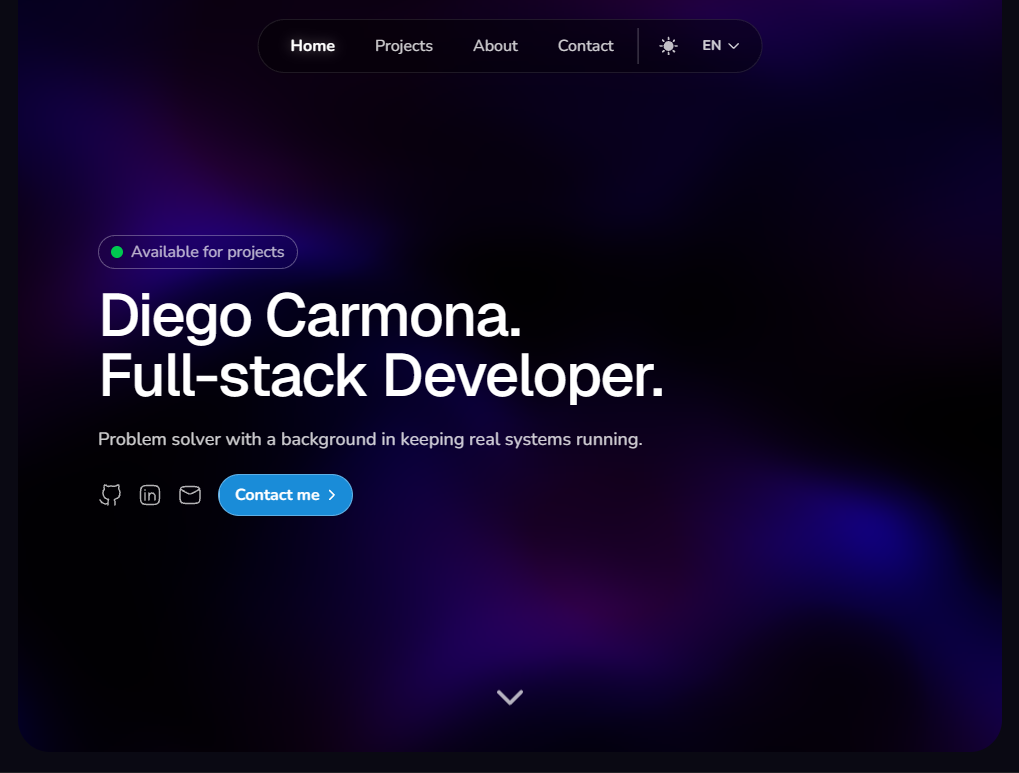
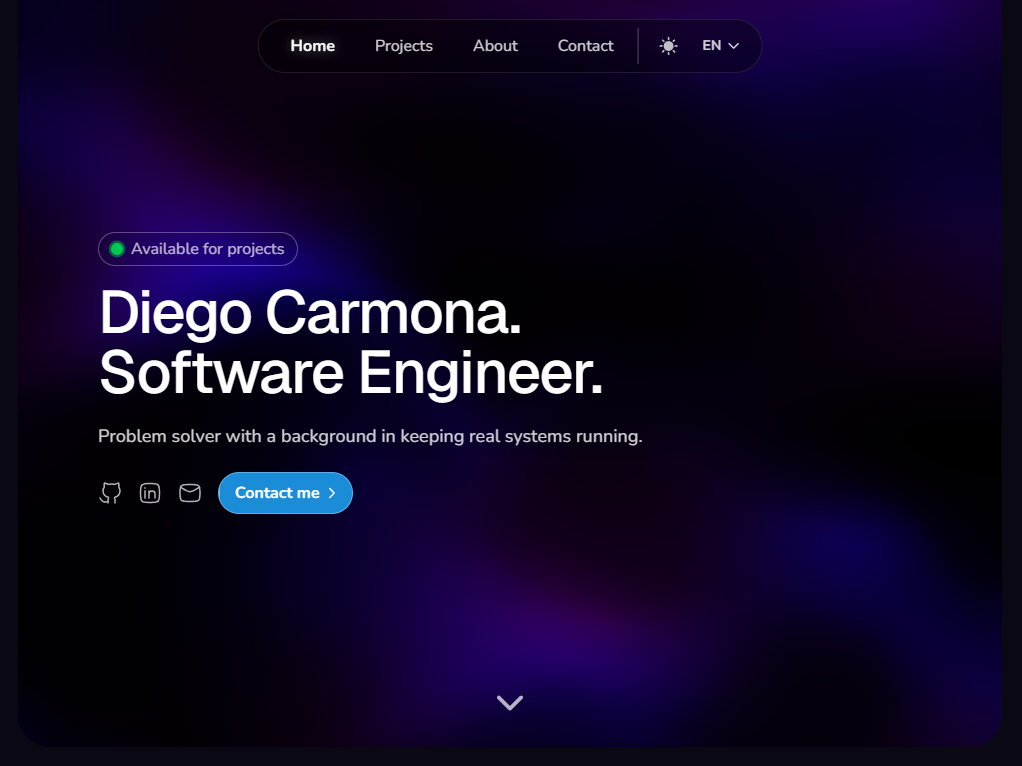
feat: update README, add SEO metadata, and implement robots.txt for improved search engine indexing

diff --git a/src/app/layout.tsx b/src/app/layout.tsx
@@ -22,6 +22,9 @@ export const metadata: Metadata = {
   title: "Diego Carmona | Software Engineer",
   description:
     "Diego Carmona's personal portfolio showcasing projects, skills, and contact information. Built with Next.js, TypeScript, and Tailwind CSS.",
+  alternates: {
+    canonical: "https://diegocarmona.me",
+  },
   keywords: [
     "Diego Carmona",
     "Software Engineer",
@@ -29,8 +32,11 @@ export const metadata: Metadata = {
     "TypeScript Developer",
     "React Developer",
     "Node.js Developer",
-    "Software Engineer",
     "Web Developer",
+    "Full Stack Developer",
+    "Desenvolvedor",
+    "Portfolio",
+    "Desenvolvedor Full Stack",
   ],
   authors: [
     {

diff --git a/src/app/components/StructuredData.tsx b/src/app/components/StructuredData.tsx
@@ -5,6 +5,10 @@ export default function StructuredData() {
     name: "Diego Carmona",
     jobTitle: "Software Engineer",
     url: "https://diegocarmona.me",
+    email: "mailto:diegoncarmona@gmail.com",
+    image: "https://diegocarmona.me/profile.jpg",
+    description:
+      "Diego Carmona is a software engineer focused on building real, production-ready web products end to end. He works across the full stack with React, Next.js, TypeScript, and Node.js, with strong attention to performance, accessibility, and real-world usage.",
     sameAs: [
       "https://www.linkedin.com/in/diegocarmn/",
       "https://github.com/diegocarmn",

diff --git a/src/app/page.tsx b/src/app/page.tsx
@@ -335,7 +335,7 @@ export default function Home() {
                     description={
                       translations[lang].contact.whatsapp.description
                     }
-                    link="http://wa.me/+5551994638306"
+                    link="https://wa.me/+5551994638306"
                   />
                 )}
               </div>

diff --git a/src/app/robots.ts b/src/app/robots.ts
@@ -1,0 +1,11 @@
+import type { MetadataRoute } from "next";
+
+export default function robots(): MetadataRoute.Robots {
+  return {
+    rules: {
+      userAgent: "*",
+      allow: "/",
+    },
+    sitemap: "https://diegocarmona.me/sitemap.xml",
+  };
+}

diff --git a/README.md b/README.md
@@ -1,76 +1,127 @@
 # Diego Carmona - Portfolio
 
-A modern, high-performance portfolio website built with cutting-edge technologies. Features premium animations, dark mode support, multi-language internationalization, and optimized performance metrics.
+A production-grade, high-performance portfolio built as a real-world web product. Designed with a strong focus on **performance, accessibility, SEO, and long-term maintainability**, while showcasing modern full-stack engineering practices.
 
-**Website/Deploy**: [carmona.vercel.app](https://carmona.vercel.app) | **Repository**: [GitHub](https://github.com/diegocarmn/portfolio)
+**Live:** https://diegocarmona.me  
+**Repository:** https://github.com/diegocarmn/portfolio
 
-## 🎯 Overview
+## Overview
 
-This is a **production-ready portfolio** showcasing full-stack development capabilities through:
+This project is a **fully production-ready portfolio** that reflects how I approach real software systems:
 
-- **Premium UX/DX** with smooth animations powered by Framer Motion
-- **Performance-first** architecture with Next.js 16 and modern React 19
-- **Type-safe** codebase with TypeScript
-- **Accessibility-compliant** semantic HTML and ARIA labels
-- **Dark mode** with automatic theme detection
-- **Multi-language support** for English and Portuguese (pt-BR)
-- **3D background effects** using Vanta + Three.js
+![Portfolio preview](./public/preview.png)
 
-## 📊 Tech Stack
+- Clear product identity and positioning
+- End-to-end ownership (UX → frontend → SEO → deployment)
+- Strong technical foundations with modern React and Next.js
+- Measurable real-world results (indexing, ranking, performance)
 
-### Frontend Framework
+It is intentionally built as a **single-page application with rich interactions**, while still being **crawlable, indexable, and SEO-safe**.
 
-- **Next.js 16.1.6** - React framework with server components and app router
-- **React 19.2.3** - Latest React with concurrent features
-- **TypeScript 5** - Full type safety across the codebase
+## Tech Stack
 
-### Styling & Animation
+### Platform & Frameworks
 
-- **Tailwind CSS 4** - Utility-first CSS with PostCSS integration
-- **Framer Motion 12.29.2** - Production-grade animations with GPU acceleration
-- **Vanta 0.5.24** - Animated 3D backgrounds
-- **Three.js 0.182.0** - WebGL rendering for 3D effects
+- **Next.js (App Router)** – modern routing, metadata API, and platform primitives
+- **React 19** – concurrent rendering and modern composition patterns
+- **TypeScript** – strict typing across the entire codebase
 
-### Developer Tools
+### Styling & Motion
 
-- **ESLint 9** - Code quality with Next.js config
-- **TypeScript strict mode** - Enforced type checking
+- **Tailwind CSS** – zero-runtime styling with design consistency
+- **Framer Motion** – declarative, GPU-accelerated animations
+- **Three.js + Vanta** – subtle 3D background effects without compromising UX
 
-### Icons & Assets
+### Tooling
 
-- **react-icons 5.5.0** - SVG icon library integration
-- **Next.js Image** - Automatic image optimization
+- **ESLint** – enforced code quality
+- **Vercel Analytics** – real usage and performance insights
+- **Next/Image & next/font** – asset and font optimization
 
-## 🚀 Features
+## Features
 
-### Performance
+### Performance & UX
 
-- ✅ **Optimized images** via Next.js Image component
-- ✅ **Font loading** with `next/font`
-- ✅ **Code splitting** with dynamic imports
-- ✅ **CSS-in-JS** via Tailwind (zero runtime overhead)
-
-### User Experience
-
-- ✅ **Smooth scroll behavior** with Intersection Observer
-- ✅ **Staggered animations** using variants pattern
-- ✅ **Hardware-accelerated transforms** via Framer Motion
-- ✅ **Responsive design** mobile-first approach
+- Optimized images and responsive assets via Next.js
+- Font loading with zero layout shift using `next/font`
+- Smooth section-based navigation with Intersection Observer
+- Motion system built on reusable Framer Motion variants
+- Mobile-first responsive layout
 
 ### Accessibility
 
-- ✅ **Semantic HTML** structure
-- ✅ **ARIA labels** on interactive elements
-- ✅ **Keyboard navigation** support
-- ✅ **Dark mode** with proper contrast ratios
-- ✅ **Screen reader** compatible
+- Semantic HTML structure (`main`, `section`, `footer`)
+- Proper heading hierarchy
+- ARIA labels and keyboard navigation
+- Screen-reader-only content for contextual clarity
+- Dark mode with accessible contrast ratios
 
 ### Internationalization
 
-- ✅ **Dual language** support (EN / PT-BR)
-- ✅ **Centralized translations** in single source
-- ✅ **Dynamic theme switching** with real-time updates
-- ✅ **Regional formatting** support
+- English and Portuguese (pt-BR) support
+- Centralized translation system
+- Dynamic language switching without reloads
+- Correct `lang` attribute handling
+
+## SEO (Search Engine Optimization)
+
+SEO in this project is treated as **part of the system design**
+
+### Implemented SEO Architecture
+
+- **Next.js Metadata API**  
+  Titles, descriptions, authorship, and keywords
+- **Open Graph & Twitter Cards**  
+  Rich previews with optimized images
+- **Structured Data (JSON-LD)**  
+  Schema.org `Person` entity with identity, role, location, and profiles
+- **robots.txt**  
+  Explicit crawl rules and sitemap reference
+- **Dynamic sitemap.xml**  
+  Auto-generated with priorities and last modification dates
+- **Canonical domain consistency**  
+  Single authoritative domain for indexing
+- **Semantic HTML**  
+  Clean document structure for crawlers and assistive tech
+- **Favicon & preview assets**  
+  Properly exposed for SERP and social platforms
+
+### Real-World Result
+
+- Indexed within hours of Search Console verification
+- Ranking #1 for branded searches such as:
+  - name + role
+  - name + tech stack
+  - name + location
+
+This validates the architecture: strong SEO fundamentals, correct semantics, and fast indexing without sacrificing UX.
+
+### SEO Architecture Diagram
+
+```
+Search Engine Crawler
+        │
+        ▼
+  robots.txt  ──── ✅ auto-generated via robots.ts (allow: /, sitemap reference)
+        │
+        ▼
+  sitemap.xml ──── ✅ auto-generated via sitemap.ts
+        │
+        ▼
+  HTML Response
+   ├── <head>
+   │    ├── <title>              ✅ Next.js Metadata API
+   │    ├── <meta description>   ✅ Next.js Metadata API
+   │    ├── <meta keywords>      ✅ Next.js Metadata API
+   │    ├── <meta og:*>          ✅ Open Graph tags
+   │    ├── <meta twitter:*>     ✅ Twitter Cards
+   │    └── <script ld+json>     ✅ JSON-LD Structured Data
+   └── <body>
+        ├── <main>               ✅ Semantic landmarks
+        ├── <h1> → <h2> → <h3>   ✅ Heading hierarchy
+        ├── aria-labels          ✅ Accessibility
+        └── sr-only text         ✅ Screen reader content
+```
 
 ## 📁 Project Structure
 
@@ -78,7 +129,7 @@ This is a **production-ready portfolio** showcasing full-stack development capab
 src/
 ├── app/
 │   ├── components/
-│   │   ├── animations.ts          # Framer Motion variants 
+│   │   ├── animations.ts          # Framer Motion variants
 │   │   ├── BentoGrid.tsx          # Bento layout with cards
 │   │   ├── Button.tsx             # Reusable button component
 │   │   ├── ContactCard.tsx        # Contact method cards
@@ -91,23 +142,28 @@ src/
 │   │   ├── ProjectsCard.tsx       # Project showcase card
 │   │   ├── ProjectsCardTag.tsx    # Skill tags component
 │   │   ├── StatusBadge.tsx        # Availability status
+│   │   ├── StructuredData.tsx     # JSON-LD structured data (schema.org)
 │   │   ├── VantaBackground.jsx    # 3D background effect wrapper
 │   │   └── content/
 │   │       └── translations.ts    # language/text data (EN + PT-BR)
+│   ├── favicon.ico                # Site favicon
 │   ├── globals.css                # Tailwind + custom properties
-│   ├── layout.tsx                 # Root layout with font optimization
-│   └── page.tsx                   # Main portfolio page
+│   ├── layout.tsx                 # Root layout with metadata & fonts
+│   ├── page.tsx                   # Main portfolio page
+│   ├── robots.ts                  # robots.txt generation (crawl rules + sitemap)
+│   └── sitemap.ts                 # Dynamic sitemap.xml generation
 ├── public/
 │   ├── map/                       # Map assets (zoom levels)
+│   ├── preview.png                # OG/Twitter preview image (1200×630)
 │   └── *.png                      # Project mockups & logos
 └── tsconfig.json                  # TypeScript strict mode enabled
 ```
 
-## 🛠 Setup & Development
+## Local Development
 
-### Prerequisites
+### Requirements
 
-- **Node.js** 18.17+ (LTS recommended)
+- **Node.js** 18+ (LTS recommended)
 - **npm** or **yarn** or **pnpm**
 
 ### Installation
@@ -145,45 +201,9 @@ npm start
 npm run lint
 ```
 
-## 🎨 Key Implementation Details
+## Deployment
 
-### Animation Strategy
-
-Using **Framer Motion variants** for reusable animation states:
-
-```typescript
-const blurUp = {
-  initial: { opacity: 0, y: 60, filter: "blur(20px)" },
-  animate: {
-    opacity: 1,
-    y: 0,
-    filter: "blur(0px)",
-    transition: { duration: 0.5 },
-  },
-};
-```
-
-**Benefits:**
-
-- Declarative animation definitions
-- Easy to maintain and modify
-- Type-safe with TypeScript
-- GPU-accelerated transforms
-
-
-
-### Optimization Techniques
-
-1. **Image optimization** via Next.js Image
-2. **CSS-in-JS** with zero runtime (Tailwind)
-3. **Code splitting** with dynamic imports
-4. **Font subsetting** with `next/font`
-
-## 🌐 Deployment
-
-### Vercel 
-
-Automatic deployments from GitHub:
+Deployed on Vercel with automatic deployments from GitHub:
 
 ```bash
 # Push to main branch triggers deployment
@@ -193,52 +213,34 @@ git push origin main
 **Benefits:**
 
 - Zero-config deployment
-- Automatic SSL certificates
+- Automatic SSL
 - Edge caching
-- Analytics included
+- Built-in analytics
 
-
-## 🔍 Code Quality
-
-### Type Safety
+## Code Quality
 
 - ✅ TypeScript strict mode enabled
-- ✅ No implicit `any` types
+- ✅ No implicit `any`
 - ✅ Exhaustive type checking
-
-### Code Style
-
 - ✅ ESLint with Next.js recommended rules
-- ✅ Consistent formatting (Tailwind classes)
-- ✅ Component co-location with styles
-
-
-## 📚 Learning Resources
-
-- [Next.js Documentation](https://nextjs.org/docs)
-- [React 19 Docs](https://react.dev)
-- [Framer Motion API](https://motion.dev)
-- [Tailwind CSS Docs](https://tailwindcss.com)
+- ✅ Consistent component boundaries
+- ✅ Predictable state and data flow
 
 ## 📄 License
 
 This project is licensed under the **MIT License**.
 
-You are free to use, copy, modify, merge, publish, and distribute this code, including for commercial purposes, provided that the original copyright and license notice are included.
-
-> ⚠ **Note:** This repository represents my personal portfolio.  
-> While the code is open-source under the MIT License, the personal information, branding, and content (such as name, images, and descriptions) should not be used to impersonate or misrepresent the author.
+> ⚠ **Note:** This repository is open-source, but personal branding, identity, and content must not be reused to impersonate or misrepresent the author.
 
 See the [`LICENSE`](./LICENSE) file for full details.
 
 ## 👤 Author
 
-**Diego Carmona** - Full Stack Developer
+**Diego Carmona** - Software Engineer
 
 - 🔗 [LinkedIn](https://linkedin.com/in/diegocarmn)
 - 🔗 [GitHub](https://github.com/diegocarmn)
 - 📧 [Email](mailto:diegoncarmona@gmail.com)
-
 
 📩 Interested in working together?  
 Feel free to reach out via LinkedIn or email.
